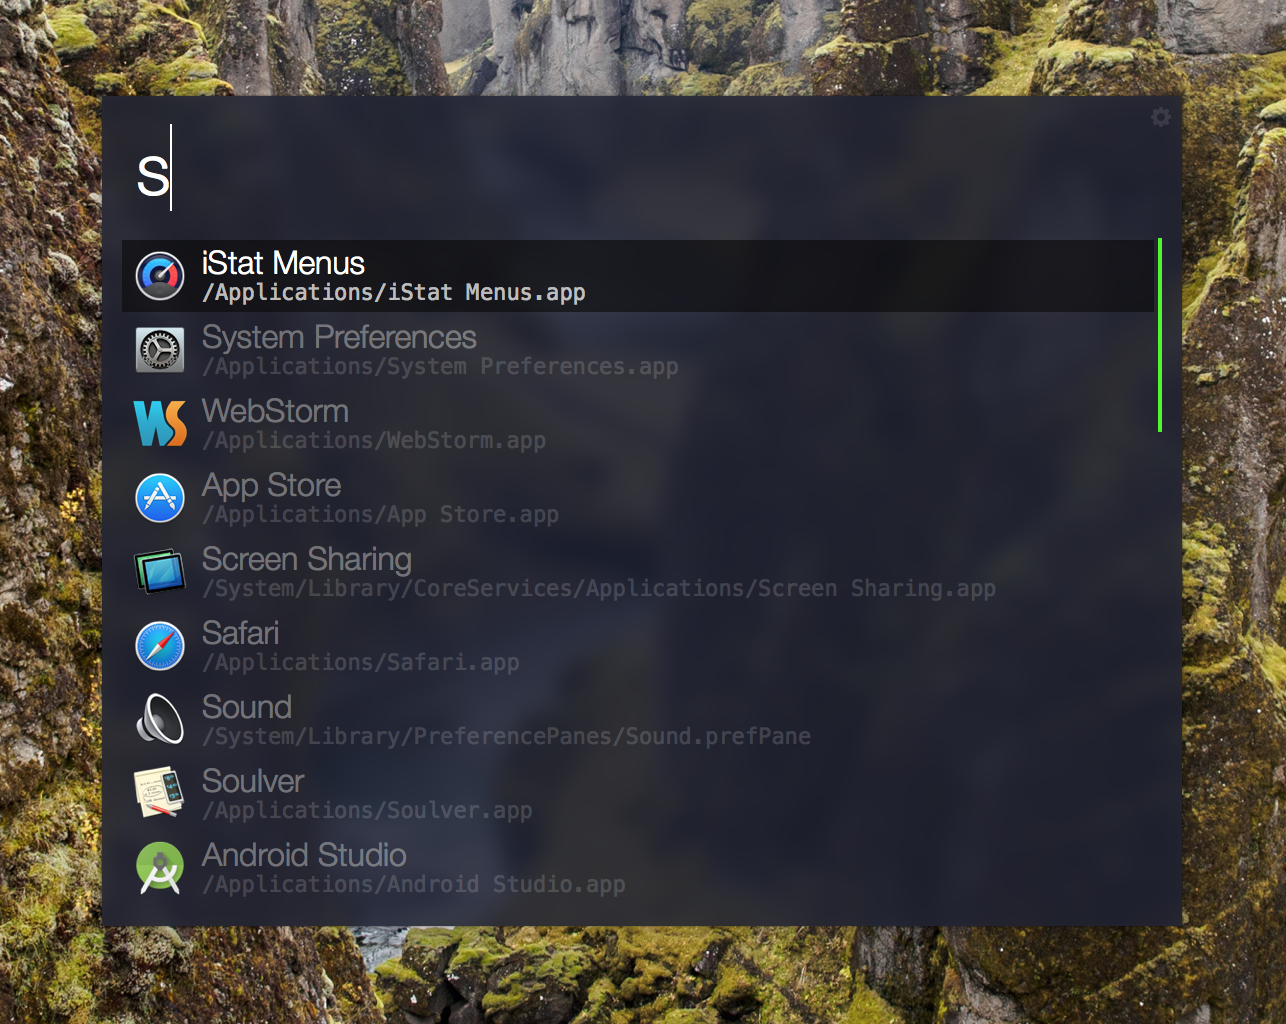
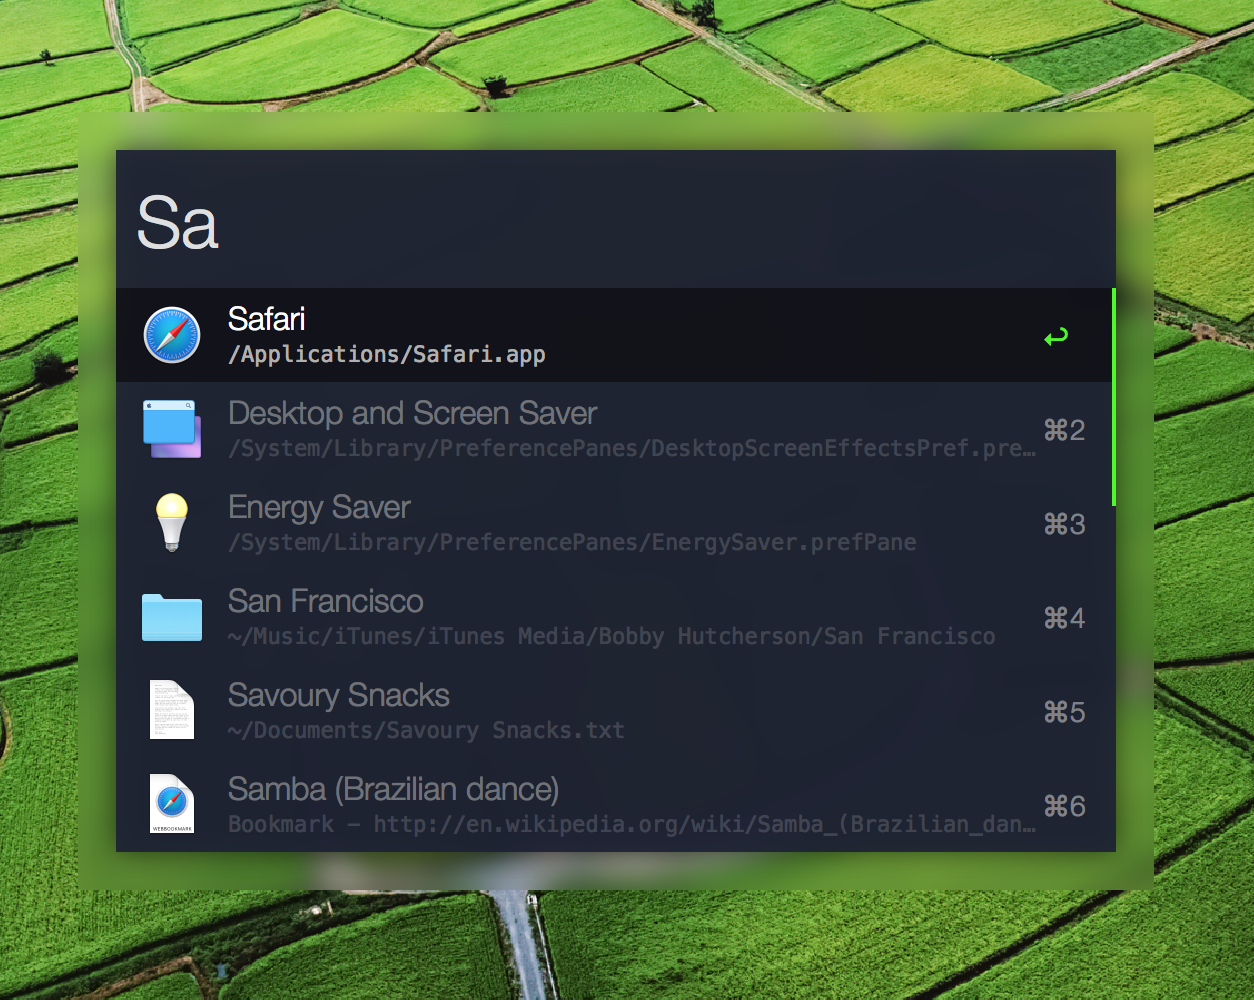
Updated screenshot, added blur border effect, etc.

diff --git a/README.md b/README.md
@@ -1,8 +1,7 @@
 Smoked Alfred Theme
 ======
-Simple subtle theme series for [Alfred](http://www.alfredapp.com/)
+Simple subtle theme series for [Alfred 3](http://www.alfredapp.com/)
 
-![Smoked Day Screenshot](smoked_day.png)
 ![Smoked Night Screenshot](smoked_night.png)
 
 
